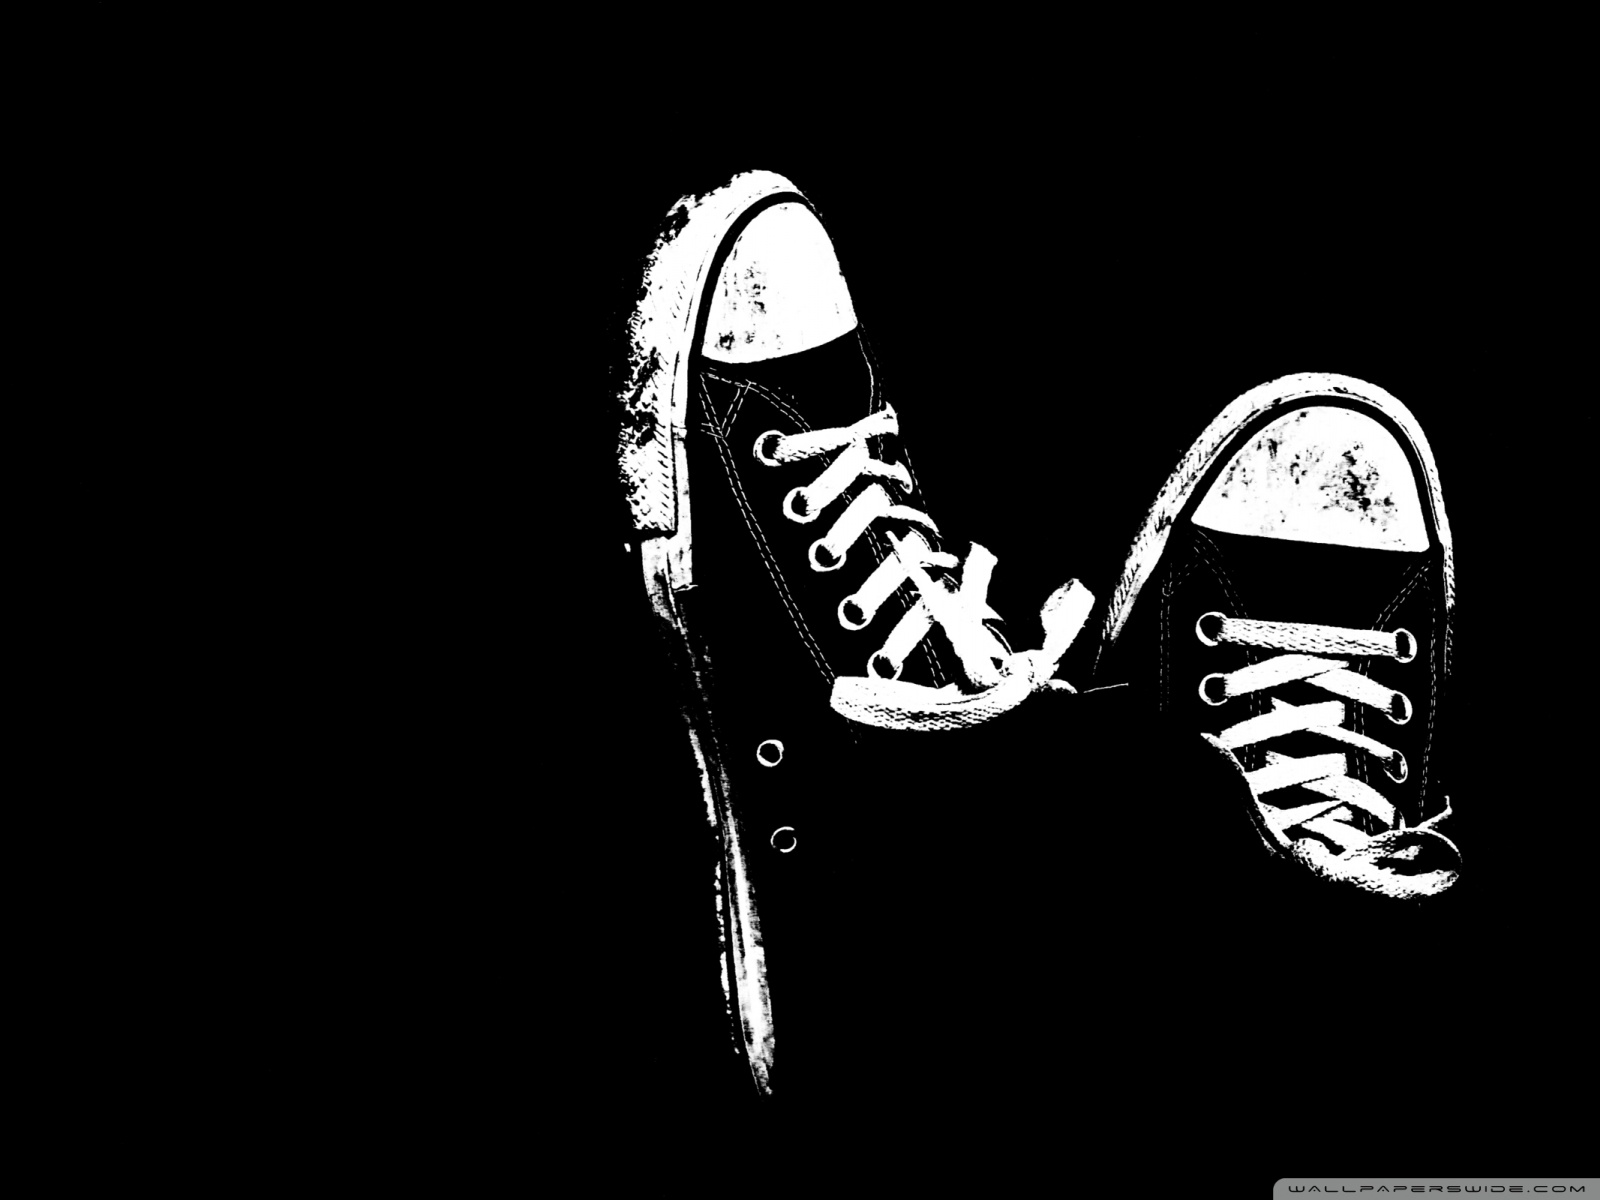
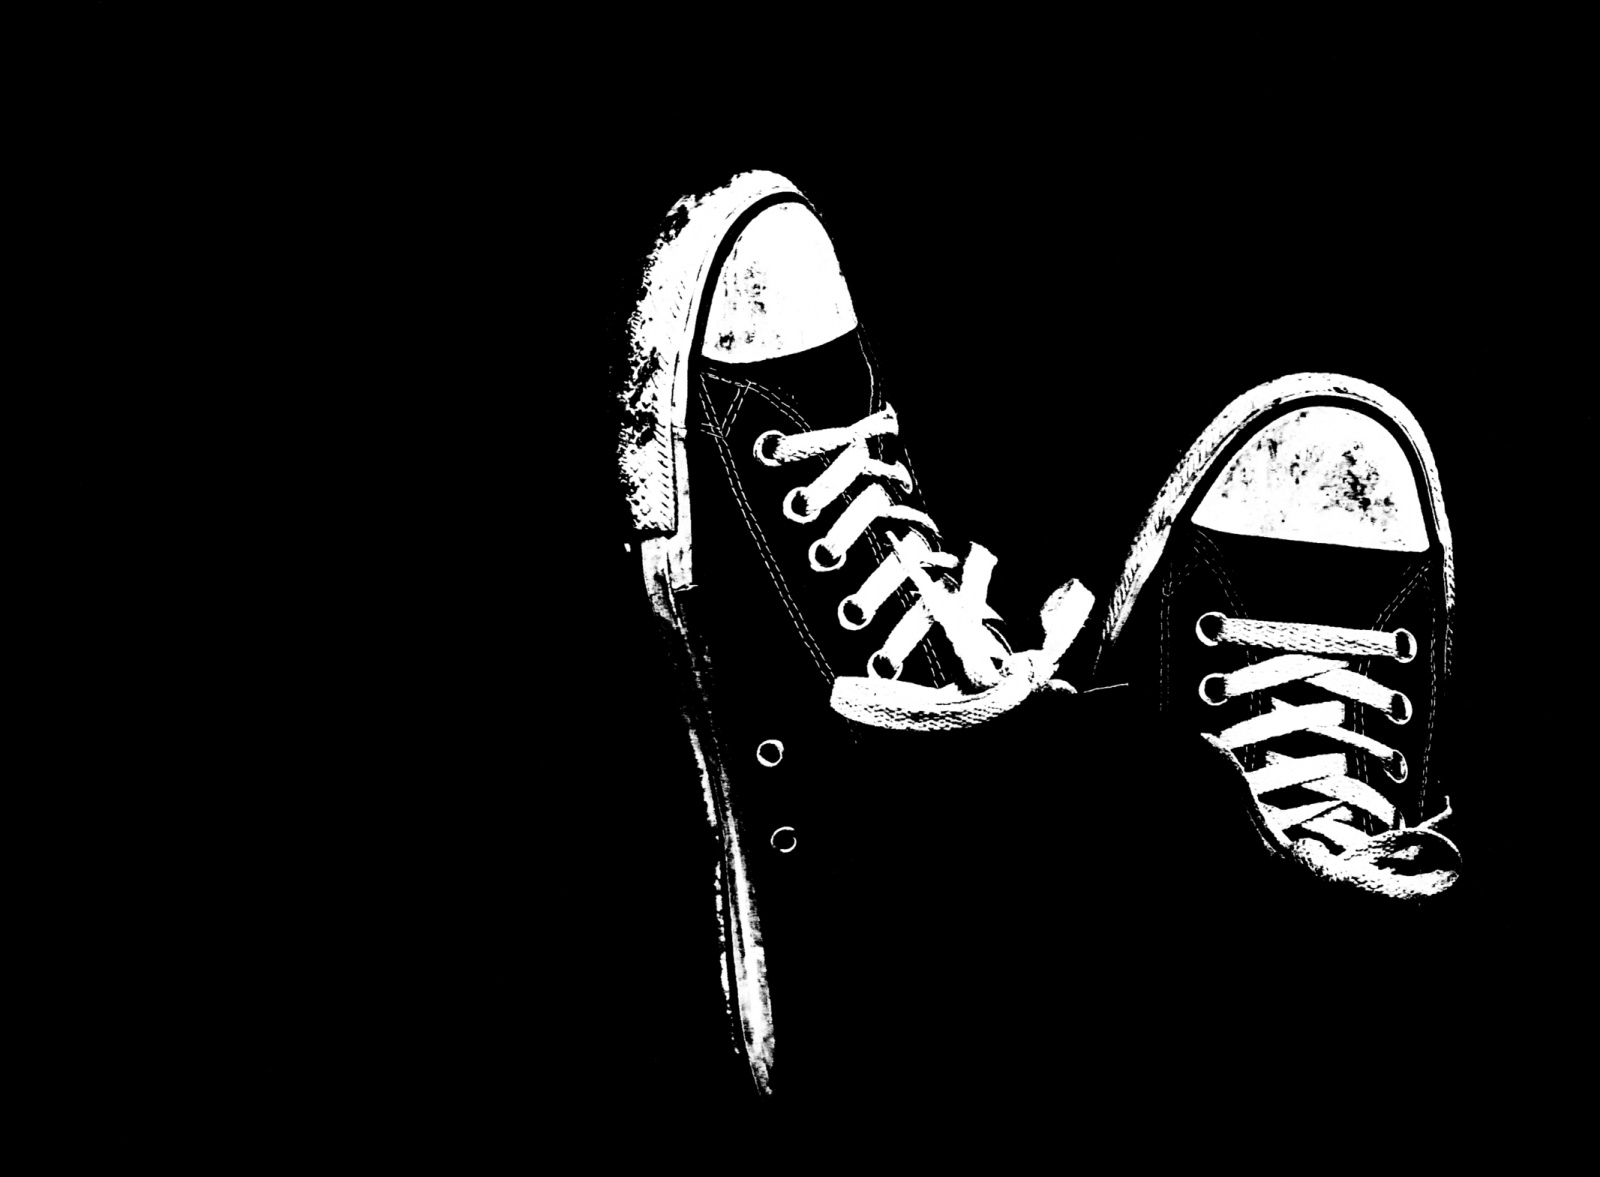
fixed background position and form fields margins fixed, dropped database on backend

Changed region(s): [[0.375, 0.1223, 0.9375, 0.7647], [0.4062, 0.6117, 0.5, 0.9176], [0.7812, 0.9788, 1.0, 1.0]]

diff --git a/index.html b/index.html
@@ -70,11 +70,12 @@
   
             <button type="submit" id='btn-remove' class="btn btn-dark">Delete Shoe</button>
             
-            <button type="submit" id='settings' class="btn btn-light">Settings</button>
-
-            <button type="submit" id='btn-show' class="btn btn-light">Show Shoe</button>
-            <button type="submit" id='btn-showall' class="btn btn-light">Show Closet</button>
+            <button type="submit" id='settings' class="btn btn-danger">Settings</button>
+            <div class='btn-space btn-group-lg'>
+              <button type="submit" id='btn-show' class="btn btn-light">Show Shoe</button>
+              <button type="submit" id='btn-showall' class="btn btn-light">Show Closet</button>
             </div>
+          </div>
       </div>
       <div class="jumbotron" id="settingsPage">
         <h2>Settings</h2> 
@@ -95,7 +96,7 @@
       
 
       <form class="shoes" id="shoes-create">
-          <div class="form-group-lg form-group row">
+          <div class="form-group-lg form-group row" id='addShoeGroup'>
               <div class="col-lg-6 col-md-6">
               <input type="text" class="form-control" name="shoe[brand]" placeholder="Brand">
               <input type="text" class="form-control" name="shoe[model]" placeholder="Model">
@@ -106,7 +107,7 @@
             </div></div>
             </form>
       <form class="shoes" id="shoes-edit">
-          <div class="form-group-lg form-group row">
+          <div class="form-group-lg form-group row" id='addShoeGroup'>
               <div class="col-lg-6 col-md-6">
                   <label for="ex1">edit</label>
               <input type="text" class="form-control" name="shoe[id]" placeholder="ID">

diff --git a/assets/scripts/events.js b/assets/scripts/events.js
@@ -13,6 +13,7 @@ const loginButton = function() {
   $('.sign-up').hide()
 }
 const showSettingsPage = function() {
+  $('.shoes, #smallMessage, #shoes-show, #shoes-all, #shoes-remove').hide()
   $('#settingsPage').show()
 }
 
@@ -25,18 +26,18 @@ const signoutButton = function() {
 }
 
 const addButton = function() {
-  $('#smallMessage, #settingsPage').hide()
+  $('#smallMessage, #settingsPage, #shoes-show, #shoes-all').hide()
   $('#shoes-create').show()
 }
 
 const showButton = function() {
-  $('.shoes').hide()
+  $('.shoes, #settingsPage').hide()
   $('#shoes-show').show()
   $('#smallMessage').html('')
 }
 
 const showAllShoesButton = function() {
-  $('.shoes').hide()
+  $('.shoes, #settingsPage').hide()
   $('#shoes-all').show()
   $('#smallMessage').html('')
 }

diff --git a/assets/styles/index.scss b/assets/styles/index.scss
@@ -9,7 +9,7 @@ head {
 body {
   color: white;
   background: url('public/bw2.png');
-  background-size: cover;
+  background-position: fixed;
   background-attachment: scroll;
 }
 
@@ -30,7 +30,7 @@ p {
 }
 
 .form-control {
-  padding: 10px;
+  margin: 20px;
 }
 
 .page-header {
@@ -49,6 +49,15 @@ p {
 }
 #list {
   color: white;
+}
+
+#create {
+  height: 50px;
+  width: 100px;
+}
+
+.btn-space .btn-group-lg {
+  padding: 5px;
 }
 
 #settingsPage,
